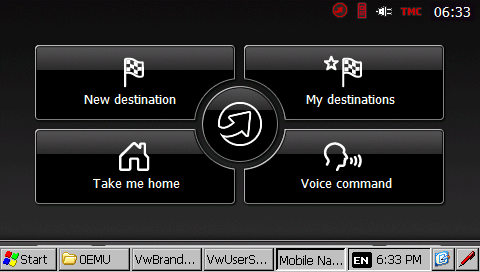
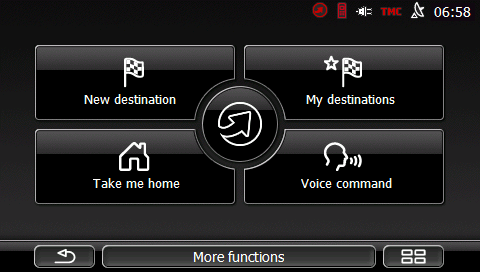
Navigon map and GPS working in the emulator
- GPS: tools/nmea.py feeds NMEA into QEMU's second UART (COM1: in the
  guest); the emulator disk sets Navigon's GPSPort to 1 and raises
  NoGpsCheckTime so it no longer resets the device after five minutes.
  GPS status shows the fix and the reverse-geocoded street.
- Map: the GL ES renderer crashes without the Cartesio accelerator, with
  the real DLL and with a full stub alike. Navigon's older eGML software
  map drawer (OldMapDrawer=1) draws the map, 3D view included, and is the
  default on the emulator disk (OLD_MAP_DRAWER=0 restores the device
  setting).
- launch-all.exe hides the Explorer taskbar first; it covered the apps'
  bottom button bars. guest-tools/build.sh regenerates all guest binaries.

Claude-Session: https://claude.ai/code/session_01QsNDPg6KZwC7mdNud2ZnjX

Changed region(s): [[0.0, 0.8824, 1.0, 1.0], [0.625, 0.0, 0.9062, 0.0882], [0.9375, 0.0294, 1.0, 0.0588]]

diff --git a/Emulator/tools/nmea.py b/Emulator/tools/nmea.py
@@ -1,0 +1,77 @@
+#!/usr/bin/env python3
+"""Feed NMEA 0183 sentences into the VM's serial port (COM1: in the guest).
+
+run-emulator.sh exposes QEMU's second UART as a TCP server on 127.0.0.1:5555;
+this connects to it and sends a fix at 1 Hz, optionally moving along a
+heading. Defaults put the car in Wolfsburg.
+
+  nmea.py                                 # fixed position
+  nmea.py --lat 52.42 --lon 10.78 --speed 50 --heading 90   # km/h, degrees
+  nmea.py --port 5555 --rate 1
+"""
+import argparse
+import datetime
+import math
+import socket
+import time
+
+
+def cksum(body):
+    c = 0
+    for ch in body:
+        c ^= ord(ch)
+    return f"${body}*{c:02X}\r\n"
+
+
+def dm(v, lat):
+    d = int(abs(v)); m = (abs(v) - d) * 60
+    if lat:
+        return f"{d:02d}{m:07.4f}", "N" if v >= 0 else "S"
+    return f"{d:03d}{m:07.4f}", "E" if v >= 0 else "W"
+
+
+def sentences(lat, lon, speed_kmh, heading, alt=80.0):
+    now = datetime.datetime.now(datetime.timezone.utc)
+    t = now.strftime("%H%M%S.00"); d = now.strftime("%d%m%y")
+    la, ns = dm(lat, True); lo, ew = dm(lon, False)
+    kn = speed_kmh / 1.852
+    out = [
+        cksum(f"GPGGA,{t},{la},{ns},{lo},{ew},1,08,1.0,{alt:.1f},M,46.9,M,,"),
+        cksum(f"GPRMC,{t},A,{la},{ns},{lo},{ew},{kn:.1f},{heading:.1f},{d},,,A"),
+        cksum("GPGSA,A,3,01,02,03,04,05,06,07,08,,,,,1.8,1.0,1.5"),
+        cksum("GPGSV,2,1,08,01,70,045,45,02,60,120,44,03,50,200,43,04,45,280,42"),
+        cksum("GPGSV,2,2,08,05,40,010,41,06,35,090,40,07,30,170,39,08,25,250,38"),
+        cksum(f"GPVTG,{heading:.1f},T,,M,{kn:.1f},N,{speed_kmh:.1f},K,A"),
+    ]
+    return "".join(out)
+
+
+def main():
+    ap = argparse.ArgumentParser()
+    ap.add_argument("--host", default="127.0.0.1")
+    ap.add_argument("--port", type=int, default=5555)
+    ap.add_argument("--lat", type=float, default=52.4227)
+    ap.add_argument("--lon", type=float, default=10.7865)
+    ap.add_argument("--speed", type=float, default=0.0, help="km/h")
+    ap.add_argument("--heading", type=float, default=0.0, help="degrees true")
+    ap.add_argument("--rate", type=float, default=1.0, help="fixes per second")
+    a = ap.parse_args()
+    lat, lon = a.lat, a.lon
+    while True:
+        try:
+            s = socket.create_connection((a.host, a.port))
+            print("connected to", a.host, a.port)
+            while True:
+                s.sendall(sentences(lat, lon, a.speed, a.heading).encode("ascii"))
+                dt = 1.0 / a.rate
+                dist = a.speed / 3.6 * dt  # metres
+                lat += dist * math.cos(math.radians(a.heading)) / 111320.0
+                lon += dist * math.sin(math.radians(a.heading)) / (111320.0 * math.cos(math.radians(lat)))
+                time.sleep(dt)
+        except (ConnectionRefusedError, BrokenPipeError, ConnectionResetError) as e:
+            print("serial port not ready:", e, "- retrying")
+            time.sleep(2)
+
+
+if __name__ == "__main__":
+    main()

diff --git a/Emulator/guest-tools/mklaunch.py b/Emulator/guest-tools/mklaunch.py
@@ -6,6 +6,23 @@ launch=""
 strings={"fmt":"EMUWIN: hwnd=%08x class='%s' title='%s' vis=%d rect=%d,%d,%d,%d","end":"EMUWIN: ---","start":"EMUWIN: launching"}
 for i,p in enumerate(procs):
     exe,_,args=p.partition("|")
+    if exe=="hidetaskbar":
+        # the Explorer taskbar covers the bottom 26 px of the 480x272 screen,
+        # where the VW apps and Navigon put their button bars
+        strings["taskbar"]="HHTaskBar"
+        launch+=f'''
+    ldr r0, =$taskbar
+    mov r1, #0
+    ldr r4, =@FindWindowW
+    ldr r4, [r4]
+    blx r4
+    cmp r0, #0
+    movne r1, #0
+    ldrne r4, =@ShowWindow
+    ldrne r4, [r4]
+    blxne r4
+'''
+        continue
     if exe=="mkdir":
         strings[f"dir{i}"]=args
         launch+=f'''
@@ -120,4 +137,4 @@ done:
     add sp, sp, #0x400
     pop {{r4-r8, pc}}
 '''
-m["build"](out, asm, {"COREDLL.dll":["CreateProcessW","CreateDirectoryW","Sleep","EnumWindows","GetClassNameW","GetWindowTextW","IsWindowVisible","GetWindowRect","wsprintfW","OutputDebugStringW"]}, strings)
+m["build"](out, asm, {"COREDLL.dll":["CreateProcessW","CreateDirectoryW","FindWindowW","ShowWindow","Sleep","EnumWindows","GetClassNameW","GetWindowTextW","IsWindowVisible","GetWindowRect","wsprintfW","OutputDebugStringW"]}, strings)

diff --git a/Emulator/README.md b/Emulator/README.md
@@ -58,8 +58,13 @@ appears after about a minute. Headless, the same with the mouse over VNC:
 
 ```sh
 pip install vncdotool pillow
-Emulator/tools/vnc.py 0emu dbl 188 143 60 shot menu     # menu.png = the shell
+Emulator/tools/nmea.py --speed 30 --heading 45 &          # GPS receiver on COM1:
+Emulator/tools/vnc.py 0emu dbl 188 143 60 shot menu      # menu.png = the shell
+Emulator/tools/vnc.py click 135 170 20 shot navigon      # Navigation tile
 ```
+
+Navigon's first start asks for language, units and the EULA (six dialogs,
+first option + OK each); the map is under More functions > Show map.
 
 ## Where the Navigon software comes from
 
@@ -116,17 +121,21 @@ DLLs that the apps load at run time (`WolfSpecial.dll`, `nfVR.dll`,
   starts `PhoneApplication.exe`, which draws its own UI ("no device
   connected") in German.
 - **Navigation starts Navigon MobileNavigator 7** (`screenshot-navigon-menu.png`):
-  the first-start wizard (language, units, time and date format, EULA) and
-  the main menu (New destination, My destinations, Take me home, Voice
-  command) work; the shell's status bar picks up its state over AppCom.
-  Phone starts `BTCore.exe` and asks to search for Bluetooth devices; Media
-  is started hidden by the shell (`MediaPlayer.exe -Mode=NOCONN`).
-- Not yet: the map itself (the GL ES DLL reports `G4M_InitMemory: Error`
-  without the Cartesio accelerator; `GL_STUB=1` swaps it for a stub of all
-  190 exports), the Explorer taskbar still covers the bottom 26 pixels, and
-  nothing feeds vehicle data, GPS or Bluetooth yet.
+  the first-start wizard (language, units, time and date format, EULA), the
+  main menu (New destination, My destinations, Take me home, Voice command),
+  More functions, Settings and **the map** work. `tools/nmea.py` is the GPS
+  receiver: GPS status shows the fix, the position is reverse-geocoded from
+  the map data ("Schleiestrasse, 38448 Wolfsburg") and the car moves on the
+  3D map (`screenshot-navigon-map.png`). The shell's status bar picks up
+  Navigon's state over AppCom. Phone starts `BTCore.exe` and asks to search
+  for Bluetooth devices; Media is started hidden by the shell
+  (`MediaPlayer.exe -Mode=NOCONN`).
+- Not yet: vehicle data (Car info shows no values), Bluetooth and media
+  playback; the GL ES renderer (the map uses Navigon's software renderer, see
+  below); TMC and voice recognition are untested.
 
-![Navigon main menu](screenshot-navigon-menu.png)
+![Navigon map with the emulated GPS fix](screenshot-navigon-map.png)
+![Navigon GPS status](screenshot-navigon-gps.png)
 
 ### What it took
 
@@ -164,7 +173,18 @@ DLLs that the apps load at run time (`WolfSpecial.dll`, `nfVR.dll`,
    7 image does not have (`tools/depcheck.py` finds such gaps statically). A
    stub `ddraw.dll` whose `DirectDrawCreate` fails is enough for the DLL to
    load and the application to run.
-6. **A self-inflicted one.** `BTCore.exe` failed with "Unable to import
+6. **Map renderer.** With the GL ES DLL loaded but no accelerator
+   (`G4M_InitMemory: Error`) "Show map" crashed `navigon.exe` in `memcpy`,
+   with the real DLL and with a stub of all 190 exports alike. Navigon still
+   carries its older eGML software map drawer (`DrawingSurfaceImplEGML`):
+   `<OldMapDrawer>1</OldMapDrawer>` in `UserSettings.default` selects it and
+   the map draws, 3D view included. `OLD_MAP_DRAWER=0` restores the device
+   setting for anyone emulating the GL ES side.
+7. **Taskbar.** The Explorer taskbar covered the bottom 26 pixels, exactly
+   where the VW apps and Navigon put their button bars. `launch-all.exe`
+   hides it (`FindWindow("HHTaskBar")` + `ShowWindow(SW_HIDE)`) before
+   starting the apps.
+8. **A self-inflicted one.** `BTCore.exe` failed with "Unable to import
    library MAPBL.dll": the package ships a newer `BT\MAPBL.dll` than the ROM,
    and the build script's copy of ROM DLLs next to each executable had
    overwritten it through the hard link into the pristine tree. The copy is
@@ -180,14 +200,17 @@ they are stored pre-relocated without fixups.
 
 ## Next steps
 
-1. **Map rendering.** Navigon draws the map through GL ES on the Cartesio
-   SGA. Options: a software GL ES 1.x for CE ARM behind the same 190 exports
-   (the stub shows which calls the map needs), or Navigon's own 2D fallback
-   if it has one (it keeps running with GL init failed).
-2. **GPS.** Feed NMEA from `gpsfake` into a third QEMU UART and point
-   Navigon's GPS settings at it.
-3. **Vehicle data.** `VwCommunicationExe` now talks to `COM1:` (QEMU's second
-   UART on `127.0.0.1:5555`). Feeding BAP frames there, or writing into the
+1. **GL ES map renderer.** The device draws the map through GL ES 1.x on the
+   Cartesio SGA; the emulator uses Navigon's software drawer. A software GL
+   ES 1.1 for CE ARM behind the same 190 exports (Vincent 3D was written for
+   exactly this platform) would bring the device's renderer back; it needs a
+   CE cross-compiler (cegcc / mingw32ce).
+2. **GPS routes.** `tools/nmea.py` moves the car along a heading; replaying
+   a recorded NMEA log (or `gpsfake`) into port 5555 gives real drives.
+3. **Vehicle data.** `VwCommunicationExe` reads the car's BAP link from
+   `COM9:` on the device; the image has a single serial port and that one is
+   the GPS now. Adding a second pl011 instance to the image's registry (the
+   vexpress board has four UARTs) and feeding BAP frames there, or writing into the
    `VwSharedMemoryFileMapping` the shell reads (mutexes
    `MessageFzgIdentMutex`, `MessageBsg3Mutex`, ... `BapAllMutex`), would light
    up Car info with speed, RPM, fuel and the trip computer. The user manual

diff --git a/Emulator/tools/README.md b/Emulator/tools/README.md
@@ -6,6 +6,7 @@ needed just to boot the VM.
 | Tool | Purpose |
 |---|---|
 | `vnc.py` | Mouse-drives the headless VM over VNC: `vnc.py 0emu dbl 188 143 40 shot menu` opens the `0emu` folder, double-clicks `launch-all.exe` and saves `menu.png`. Keyboard input through VNC doubles characters in this guest, so everything is clicks plus screenshot checks (`ref/*.png` are the Explorer address-bar crops it compares against). `pip install vncdotool pillow`. |
+| `nmea.py` | GPS receiver for the VM: sends NMEA (GGA, RMC, GSA, GSV, VTG) at 1 Hz into QEMU's second UART on 127.0.0.1:5555, which the guest sees as `COM1:` and Navigon is configured to read. `--lat/--lon/--speed/--heading` move the car. |
 | `trace.gdb.py` | Windows CE API tracer on QEMU's gdbstub. It puts breakpoints on coredll exports (addresses from `coredll_exports.txt`, the export table of the image's coredll.dll) and on mmtimer, decodes the interesting arguments (file names, window classes, event names, timer ids) and logs one line per call with the caller's `lr`. See `trace.sh`. |
 | `trace.sh` | Starts the tracer against the VM from `run-emulator.sh --headless` (gdb on 127.0.0.1:1234). Attach it after the clicks that need exact timing: breakpoints slow the guest down. |
 | `disas.py` | Small capstone/pefile front end for the ARM CE binaries: `xref` (who references a wide string), `dis ADDR LEN [arm]`, `func ADDR` (whole function via `.pdata`), `imports`, `exports`. Resolves literal pools to strings and import names. |

diff --git a/Emulator/guest-tools/README.md b/Emulator/guest-tools/README.md
@@ -17,8 +17,10 @@ They print to the kernel debug output, which `run-emulator.sh` writes to
 | `wintest.exe` | enumerates every top-level window (class, title, visible, rect) 12 times |
 | `stacks.exe` | lists processes, modules and the call stack of every thread (toolhelp + GetThreadCallStack), 6 samples |
 | `loadtest.exe PATH` | `LoadLibraryW(PATH)`, then a message box and an `EMULOAD:` serial line with the handle and `GetLastError` (which DLL the loader really rejects) |
-| `launch-all.exe` / `launch-brand.exe` / `launch-shell.exe` | start the VW apps with their real command lines, then log windows for two minutes |
+| `launch-all.exe` / `launch-brand.exe` / `launch-shell.exe` | hide the Explorer taskbar (it covers the apps' bottom button bars), start the VW apps with their real command lines, then log windows for two minutes |
 
 Results on the 2022-04-17 Compact 7 image: sockets, timers and GDI blits all
 work; the VW apps create their windows and sit idle in their message loops
 without ever blitting.
+
+`build.sh` regenerates every binary in `bin/` (set `PYTHON` to an interpreter that has keystone-engine).
